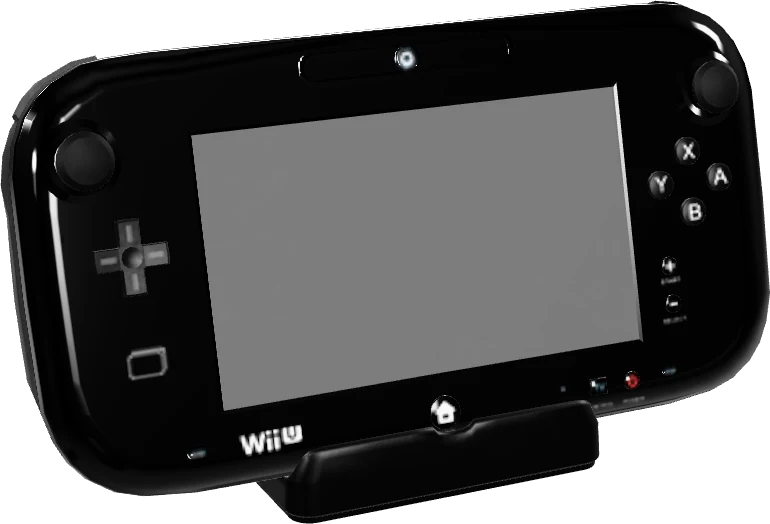
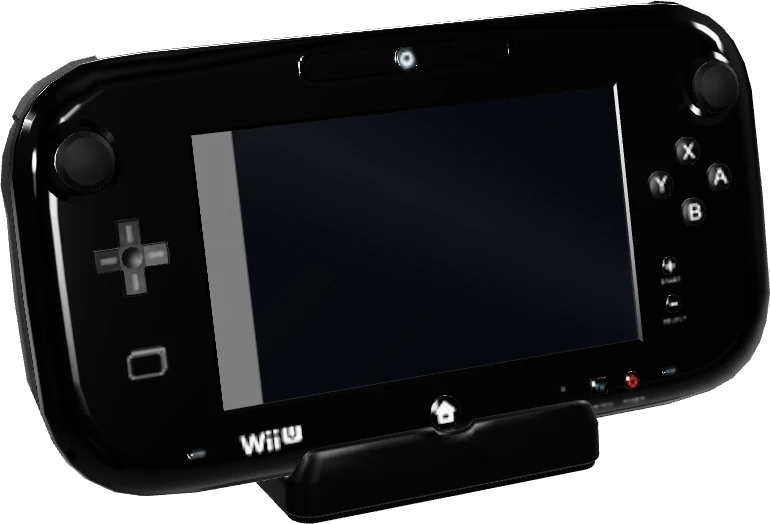
Consolas con sus colores originales y la pantalla apagada (GBA índigo, sin arte de juegos en pantallas ni cartuchos)
Claude-Session: https://claude.ai/code/session_01DAaLL6aioPJYsobwmy8SPA

Changed region(s): [[0.2805, 0.1527, 0.8416, 0.7939]]

diff --git a/app/src/main/java/cl/nikalbazu/diptico/estado/Novedades.kt b/app/src/main/java/cl/nikalbazu/diptico/estado/Novedades.kt
@@ -574,7 +574,7 @@ object Novedades {
         Version(ID, "Colección viva", listOf(
             Pagina("Un Díptico nuevo", "Arriba, el arte del juego a pantalla completa con su caja en 3D; abajo, tus consolas, un estante de cajas y tus apps. Todo en su lugar, sin nada encima.", Icono.PORTADA, 0xFF3B6BFF),
             Pagina("Gira la caja", "Toca la caja o aprieta R3: viaja al centro y muestra el reverso. Abajo aparece el carrete con todas sus imágenes.", Icono.CHISPA, 0xFF6B4EFF),
-            Pagina("Tus consolas, con su historia", "En las carpetas, cada consola cuenta su historia y aparece en grande, flotando sobre un fondo de su color: inclínala con el dedo. Al entrar suena su propio encendido.", Icono.MANDO, 0xFFFF9B54),
+            Pagina("Tus consolas, con su historia", "En las carpetas, cada consola cuenta su historia y aparece en grande, con sus colores originales y la pantalla apagada, flotando sobre un fondo de su color: inclínala con el dedo o con el stick derecho. Al entrar suena su propio encendido.", Icono.MANDO, 0xFFFF9B54),
             Pagina("Cuatro vistas de carpetas", "Ícono, Díptico, Repisa y Carpeta: Select las cambia. En Ícono, pellizca con dos dedos para agrandar o achicar. Mantén Select para intercambiar las pantallas donde estés.", Icono.CARPETA, 0xFF35C6D8),
             Pagina("Widgets que toman tu tema", "Continuar, Tu semana, DIPPO, ¿Qué juego hoy?, Equipo y más. Cambian de color, forma y letra con tu tema. «Editar widgets» los quita o los agrega.", Icono.APPS, 0xFF9BE15D),
             Pagina("Temas nuevos", "Los temas se rehicieron para este diseño: Colección, Aurora, Cartucho, Papel, Negro puro, Acuario, Salón, Constelación, y los vivos Nieve, Lava, Bosque, Luna, Marea, Sakura, Portátil y Fogata. Las fechas especiales siguen en el Calendario.", Icono.PALETA, 0xFFFF5D8F),

diff --git a/herramientas/consolas/pintar.py b/herramientas/consolas/pintar.py
@@ -1,0 +1,22 @@
+import numpy as np, cv2, sys
+from PIL import Image
+def cargar(f): return np.array(Image.open(f).convert('RGB')).astype(np.float32)
+def guardar(a,f):
+    im=Image.fromarray(np.clip(a,0,255).astype(np.uint8))
+    if f.endswith('.jpg'): im.save(f,quality=92)
+    else: im.save(f)
+def comp(mask, cerca=None):
+    m=(mask*255).astype(np.uint8); m=cv2.morphologyEx(m,cv2.MORPH_CLOSE,np.ones((5,5),np.uint8))
+    n,lab,st,cen=cv2.connectedComponentsWithStats(m)
+    orden=[i for i in np.argsort(-st[:,4]) if i!=0]
+    return st[orden[0]] if orden else None
+def pantalla_apagada(a,x0,y0,x1,y1,base,brillo=18):
+    """Rellena un rectángulo con una pantalla apagada: color base con un reflejo diagonal suave."""
+    h=y1-y0; w=x1-x0
+    yy,xx=np.mgrid[0:h,0:w]
+    t=(xx/w*0.6+ (1-yy/h)*0.4)
+    ref=np.clip(1-abs(t-0.62)*5,0,1)*brillo
+    c=np.array(base,np.float32)[None,None,:]+ref[...,None]
+    a[y0:y1,x0:x1]=c
+def sat(a): return a.max(-1)-a.min(-1)
+def lum(a): return a.mean(-1)

diff --git a/herramientas/consolas/LEEME.md b/herramientas/consolas/LEEME.md
@@ -1,0 +1,13 @@
+# Imágenes de las consolas (assets/consolas/<id>.webp)
+
+Fotos de estudio hechas desde modelos 3D de Sketchfab (créditos en `Modelos3D`), con fondo transparente.
+Concepto: **pantalla apagada y colores originales**, sin arte de juegos (no se usan pantallas ni etiquetas con juegos reales).
+
+- `tex.mjs sacar|poner <id>`: saca las texturas de `h/<id>.glb` a `tx/` y vuelve a ponerlas en `h2/<id>.glb`.
+- `pintar.py`: ayudas para pintar (pantalla apagada con reflejo, etiquetas lisas, rampa de color).
+  GBA: cuerpo al índigo original con una rampa por luminancia, calcomanías borradas con inpaint de OpenCV.
+- `sinemis.mjs` quita la textura emisiva (ahí venían las pantallas encendidas de GBA y PSP);
+  `sinnormal.mjs` quita relieve (la GBA traía emblemas en el mapa de normales); `quitar.mjs` borra mallas por nombre
+  (pantallas superpuestas de la Game Boy, texto del robot Android).
+- `consolas_png.py [ids]` (con `DIR=h2`) renderiza con model-viewer + Chrome (swiftshader) de frente con 25° de giro.
+- La DS es una foto de Evan-Amos (Wikimedia Commons, dominio público).
